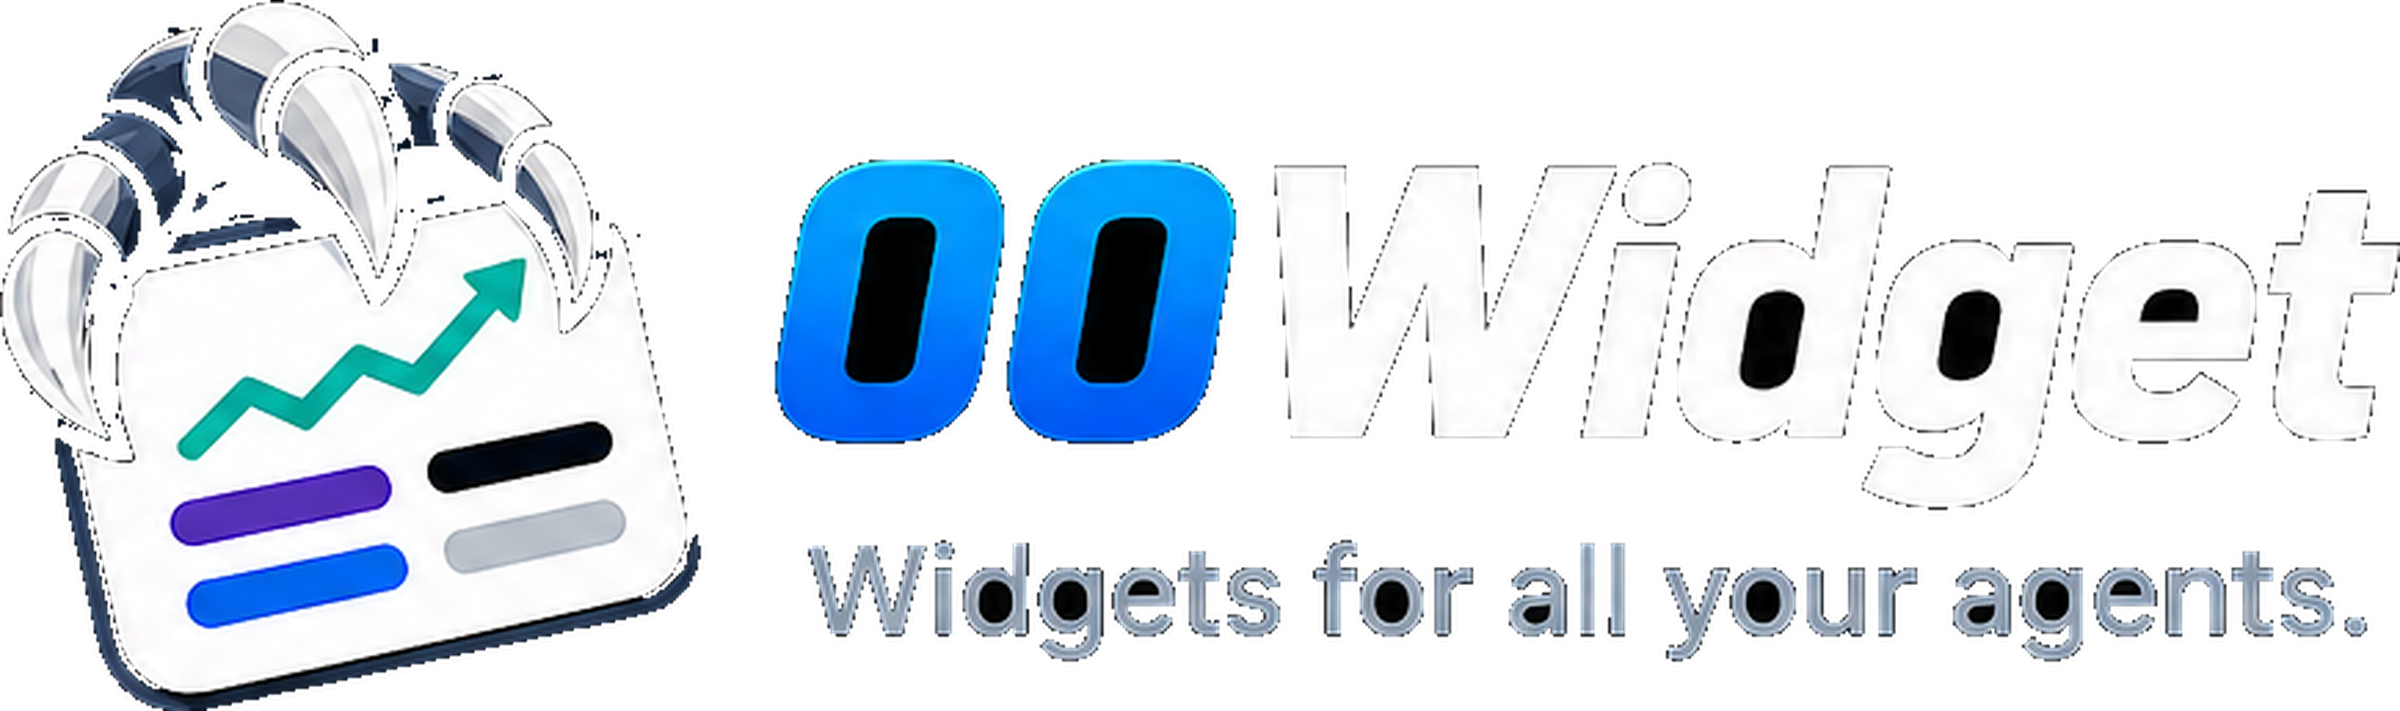
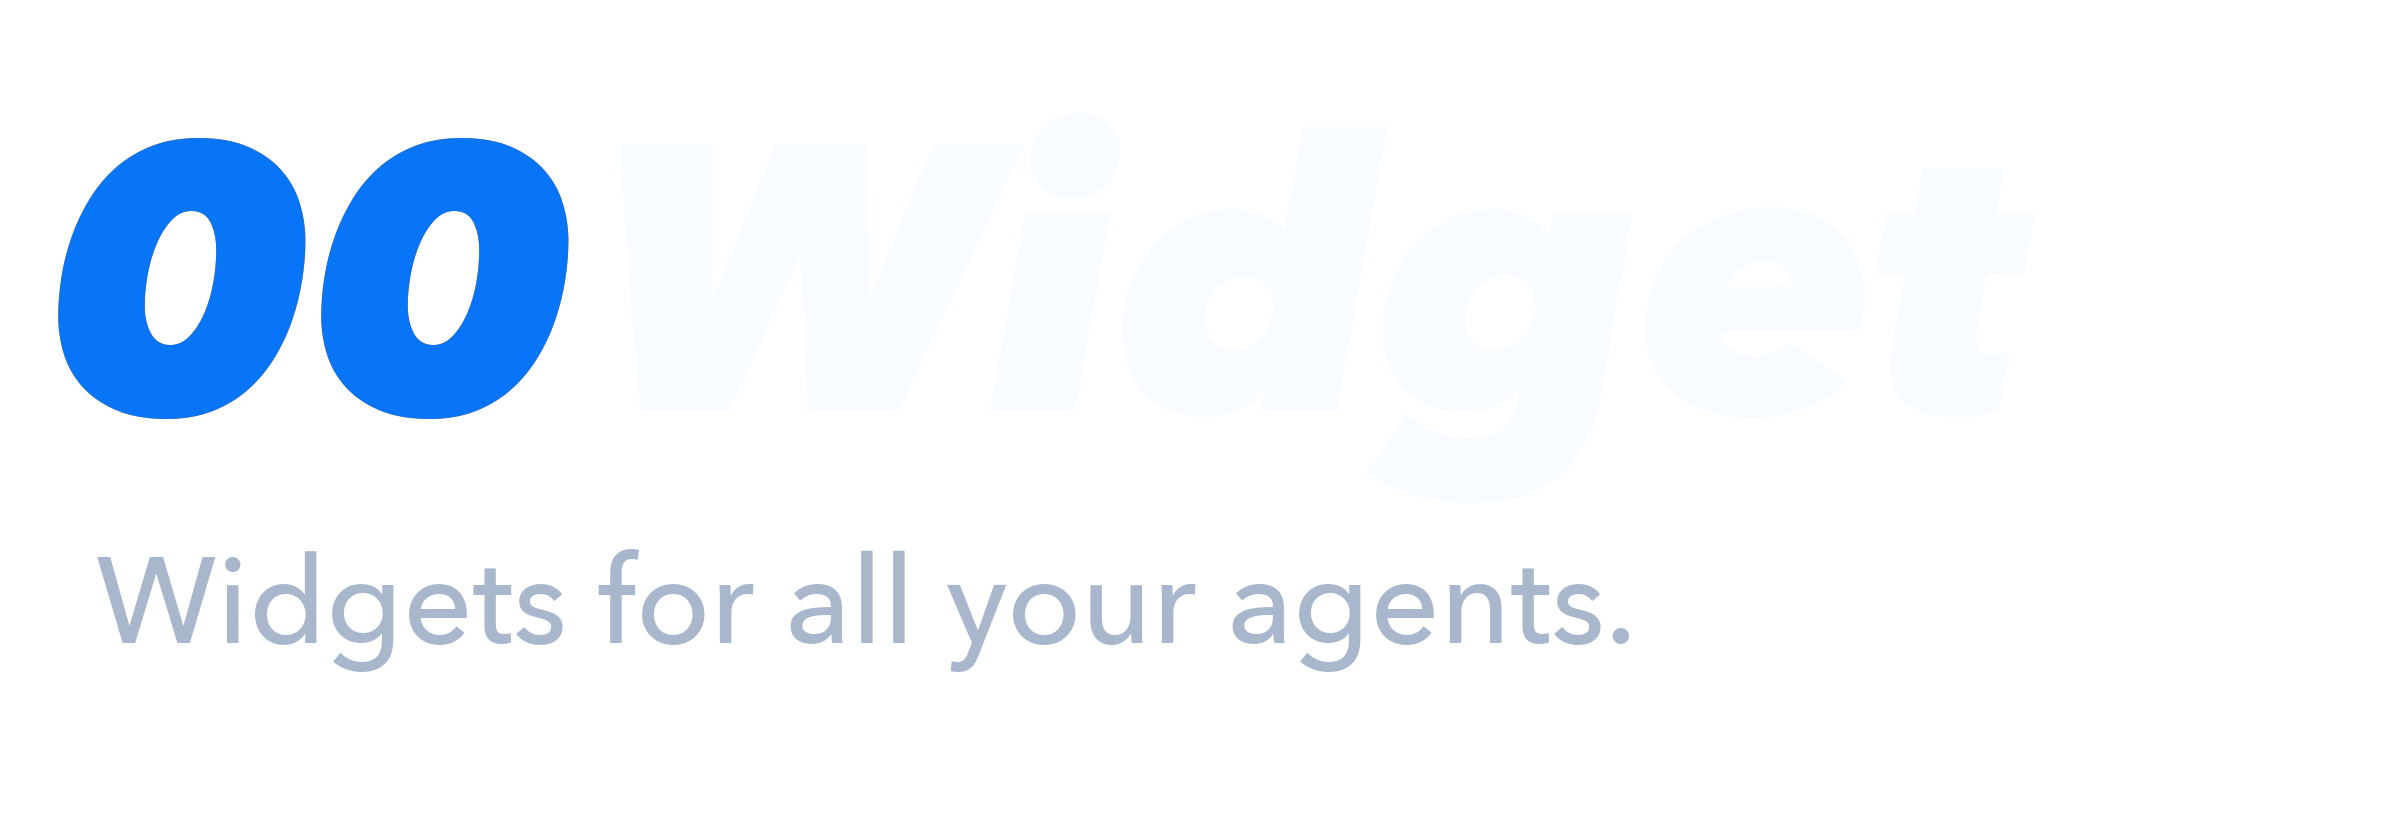
Adopt U2 two-card agent branding
Adopt the approved U2 two-card identity across documentation, iOS, and
tvOS assets. Add high-resolution raster masters and a deterministic
generator so every icon, wordmark, top-shelf image, and launch asset
derives from reviewed sources.

Document the palette and asset roles, and keep generated platform
artwork committed for reproducible releases.

Assisted-by: Codex <codex@openai.com>

diff --git a/scripts/generate-brand-assets.py b/scripts/generate-brand-assets.py
@@ -1,0 +1,250 @@
+#!/usr/bin/env python3
+"""Generate 00Widget assets from the approved U2 identity sheet."""
+
+from __future__ import annotations
+
+import shutil
+from collections import deque
+from pathlib import Path
+
+from PIL import Image, ImageDraw, ImageFont, ImageOps
+
+
+REPO_ROOT = Path(__file__).resolve().parents[1]
+BRAND_DIR = REPO_ROOT / "docs" / "brand"
+SOURCE = BRAND_DIR / "u2-approved-reference.png"
+MARK_MASTER = BRAND_DIR / "u2-mark-transparent-master.png"
+APP_ICON_MASTER = BRAND_DIR / "u2-app-icon-master.png"
+WEBSITE_ROOT = REPO_ROOT.parent / "00widget-www"
+
+NAVY = "#06152A"
+MID_NAVY = "#4C607D"
+WHITE = "#F8FBFF"
+GRAY = "#A9B7CC"
+FONT_PATH = "/System/Library/Fonts/Avenir Next.ttc"
+
+# Pixel-exact regions from the approved 1536 × 1024 U2 identity sheet.
+MARK_BOX = (100, 50, 630, 570)
+APP_ICON_BOX = (105, 685, 375, 955)
+WORDMARK_BOX = (675, 225, 1475, 505)
+
+
+def font(size: int, *, index: int = 5) -> ImageFont.FreeTypeFont:
+    return ImageFont.truetype(FONT_PATH, size=size, index=index)
+
+
+def crop(box: tuple[int, int, int, int]) -> Image.Image:
+    return Image.open(SOURCE).convert("RGBA").crop(box)
+
+
+def remove_exterior_background(image: Image.Image, threshold: int = 54) -> Image.Image:
+    """Remove only sheet pixels connected to the crop edge.
+
+    U2 contains white cards and a white hat band, so global white-to-alpha
+    conversion would damage the approved art. Edge-connected removal keeps
+    those enclosed white details intact.
+    """
+    rgba = image.convert("RGBA")
+    pixels = rgba.load()
+    width, height = rgba.size
+    sample_points = [(0, 0), (width - 1, 0), (0, height - 1), (width - 1, height - 1)]
+    background = tuple(round(sum(pixels[x, y][channel] for x, y in sample_points) / 4) for channel in range(3))
+
+    def is_background(x: int, y: int) -> bool:
+        color = pixels[x, y]
+        return sum((color[channel] - background[channel]) ** 2 for channel in range(3)) ** 0.5 <= threshold
+
+    queue: deque[tuple[int, int]] = deque()
+    visited = bytearray(width * height)
+    for x in range(width):
+        queue.append((x, 0))
+        queue.append((x, height - 1))
+    for y in range(height):
+        queue.append((0, y))
+        queue.append((width - 1, y))
+
+    while queue:
+        x, y = queue.popleft()
+        index = y * width + x
+        if visited[index] or not is_background(x, y):
+            continue
+        visited[index] = 1
+        pixels[x, y] = (0, 0, 0, 0)
+        if x:
+            queue.append((x - 1, y))
+        if x + 1 < width:
+            queue.append((x + 1, y))
+        if y:
+            queue.append((x, y - 1))
+        if y + 1 < height:
+            queue.append((x, y + 1))
+
+    return rgba
+
+
+def remove_light_background(image: Image.Image) -> Image.Image:
+    """Remove the identity sheet's light backdrop from text-only artwork."""
+    rgba = image.convert("RGBA")
+    result: list[tuple[int, int, int, int]] = []
+    for red, green, blue, _ in rgba.getdata():
+        distance = ((red - 249) ** 2 + (green - 249) ** 2 + (blue - 249) ** 2) ** 0.5
+        alpha = max(0, min(255, round((distance - 2) * 255 / 28)))
+        result.append((red, green, blue, alpha))
+    rgba.putdata(result)
+    return rgba
+
+
+def contain(image: Image.Image, size: tuple[int, int], padding: int = 0) -> Image.Image:
+    canvas = Image.new("RGBA", size, (0, 0, 0, 0))
+    available = (size[0] - padding * 2, size[1] - padding * 2)
+    fitted = ImageOps.contain(image, available, Image.Resampling.LANCZOS)
+    canvas.alpha_composite(fitted, ((size[0] - fitted.width) // 2, (size[1] - fitted.height) // 2))
+    return canvas
+
+
+def dark_background(size: tuple[int, int]) -> Image.Image:
+    gradient = Image.radial_gradient("L").resize(size, Image.Resampling.LANCZOS)
+    return ImageOps.colorize(gradient, black=NAVY, white="#153B73").convert("RGBA")
+
+
+def save(image: Image.Image, path: Path, *, opaque: bool = False) -> None:
+    path.parent.mkdir(parents=True, exist_ok=True)
+    if opaque:
+        image = image.convert("RGB")
+    image.save(path, optimize=True)
+
+
+def exact_wordmark(*, transparent: bool) -> Image.Image:
+    source = crop(WORDMARK_BOX)
+    if transparent:
+        source = remove_light_background(source)
+    return source.resize((2400, 840), Image.Resampling.LANCZOS)
+
+
+def clean_wordmark(size: tuple[int, int], *, dark_surface: bool) -> Image.Image:
+    """Re-typeset the approved lockup cleanly for transparent/dark contexts."""
+    width, height = size
+    image = Image.new("RGBA", size, (0, 0, 0, 0))
+    draw = ImageDraw.Draw(image)
+    title_font = font(round(height * 0.45), index=9)
+    tagline_font = font(round(height * 0.145), index=5)
+    title_y = round(height * 0.04)
+    zero_x = round(width * 0.02)
+    zero_mask = Image.new("L", size, 0)
+    ImageDraw.Draw(zero_mask).text((zero_x, title_y), "00", font=title_font, fill=255)
+    blue_gradient = Image.new("RGBA", size, "#0874F7")
+    image.paste(blue_gradient, (0, 0), zero_mask)
+    zero_width = draw.textlength("00", font=title_font)
+    widget_x = round(zero_x + zero_width + height * 0.025)
+    draw.text((widget_x, title_y), "Widget", font=title_font, fill=WHITE if dark_surface else NAVY)
+    draw.text(
+        (round(width * 0.04), round(height * 0.62)),
+        "Widgets for all your agents.",
+        font=tagline_font,
+        fill=GRAY if dark_surface else MID_NAVY,
+    )
+    return image
+
+
+def tv_hero(mark: Image.Image, size: tuple[int, int]) -> Image.Image:
+    width, height = size
+    image = dark_background(size)
+    mark_size = round(height * 0.82)
+    image.alpha_composite(contain(mark, (mark_size, mark_size)), (round(width * 0.055), (height - mark_size) // 2))
+    wordmark = clean_wordmark((1200, 420), dark_surface=True)
+    target_width = round(width * 0.55)
+    target_height = round(target_width * wordmark.height / wordmark.width)
+    wordmark = wordmark.resize((target_width, target_height), Image.Resampling.LANCZOS)
+    image.alpha_composite(wordmark, (round(width * 0.40), (height - target_height) // 2))
+    return image
+
+
+def launch(mark: Image.Image) -> Image.Image:
+    image = dark_background((1920, 1080))
+    image.alpha_composite(contain(mark, (700, 700)), (115, 190))
+    wordmark = clean_wordmark((950, 333), dark_surface=True)
+    image.alpha_composite(wordmark, (830, 360))
+    return image
+
+
+def branding_sheet(mark: Image.Image, app_icon: Image.Image, wordmark: Image.Image) -> Image.Image:
+    image = Image.new("RGBA", (1536, 1024), "#F5F7FA")
+    draw = ImageDraw.Draw(image)
+    draw.text((70, 50), "00Widget identity system", font=font(42, index=0), fill=NAVY)
+    draw.text((70, 108), "U2 — approved master", font=font(24), fill=MID_NAVY)
+    image.alpha_composite(contain(mark, (520, 520)), (35, 135))
+    image.alpha_composite(ImageOps.contain(wordmark, (830, 290), Image.Resampling.LANCZOS), (620, 220))
+    draw.line((70, 640, 1466, 640), fill="#D8E0EA", width=2)
+    draw.rounded_rectangle((70, 690, 340, 960), radius=50, fill="#FFFFFF", outline="#D8E0EA")
+    image.alpha_composite(app_icon.resize((250, 250), Image.Resampling.LANCZOS), (80, 700))
+    draw.text((425, 735), "Two cards", font=font(30, index=0), fill=NAVY)
+    draw.text((425, 788), "A secret agent for every widget.", font=font(25), fill=MID_NAVY)
+    draw.text((425, 850), "Widgets for all your agents.", font=font(31, index=0), fill=NAVY)
+    return image
+
+
+def resize(source: Image.Image, size: tuple[int, int], *, opaque: bool = False) -> Image.Image:
+    result = source.resize(size, Image.Resampling.LANCZOS)
+    return result.convert("RGB") if opaque else result
+
+
+def generate() -> None:
+    for required in (SOURCE, MARK_MASTER, APP_ICON_MASTER):
+        if not required.exists():
+            raise SystemExit(f"Missing approved identity source: {required}")
+
+    mark = Image.open(MARK_MASTER).convert("RGBA")
+    app_icon = Image.open(APP_ICON_MASTER).convert("RGB").resize((1024, 1024), Image.Resampling.LANCZOS)
+    wordmark_opaque = exact_wordmark(transparent=False).convert("RGB")
+    wordmark_transparent = clean_wordmark((2400, 840), dark_surface=True)
+
+    save(app_icon, BRAND_DIR / "mark-1024.png", opaque=True)
+    save(contain(mark, (1024, 1024), padding=20), BRAND_DIR / "mark-transparent-1024.png")
+    save(wordmark_opaque, BRAND_DIR / "wordmark-horizontal.png", opaque=True)
+    save(wordmark_transparent, BRAND_DIR / "wordmark-horizontal-transparent.png")
+    shutil.copy2(SOURCE, BRAND_DIR / "branding-sheet.png")
+
+    save(app_icon, REPO_ROOT / "ios/Resources/App/Assets.xcassets/AppIcon.appiconset/Icon-1024.png", opaque=True)
+
+    tv_assets = REPO_ROOT / "ios/Resources/TV/Assets.xcassets/App Icon & Top Shelf Image.brandassets"
+    back_store = dark_background((2560, 1536)).convert("RGB")
+    front_store = contain(mark, (2560, 1536), padding=250)
+    back_regular = resize(back_store, (800, 480), opaque=True)
+    front_regular = resize(front_store, (800, 480))
+
+    save(back_store, tv_assets / "App Icon - App Store.imagestack/Back.imagestacklayer/Content.imageset/Back@2x.png", opaque=True)
+    save(resize(back_store, (1280, 768), opaque=True), tv_assets / "App Icon - App Store.imagestack/Back.imagestacklayer/Content.imageset/Back.png", opaque=True)
+    save(front_store, tv_assets / "App Icon - App Store.imagestack/Front.imagestacklayer/Content.imageset/Front@2x.png")
+    save(resize(front_store, (1280, 768)), tv_assets / "App Icon - App Store.imagestack/Front.imagestacklayer/Content.imageset/Front.png")
+    save(back_regular, tv_assets / "App Icon.imagestack/Back.imagestacklayer/Content.imageset/Back@2x.png", opaque=True)
+    save(resize(back_regular, (400, 240), opaque=True), tv_assets / "App Icon.imagestack/Back.imagestacklayer/Content.imageset/Back.png", opaque=True)
+    save(front_regular, tv_assets / "App Icon.imagestack/Front.imagestacklayer/Content.imageset/Front@2x.png")
+    save(resize(front_regular, (400, 240)), tv_assets / "App Icon.imagestack/Front.imagestacklayer/Content.imageset/Front.png")
+
+    top_shelf = tv_hero(mark, (1920, 720))
+    top_shelf_wide = tv_hero(mark, (2320, 720))
+    save(resize(top_shelf, (3840, 1440), opaque=True), tv_assets / "Top Shelf Image.imageset/TopShelf@2x.png", opaque=True)
+    save(top_shelf, tv_assets / "Top Shelf Image.imageset/TopShelf.png", opaque=True)
+    save(resize(top_shelf_wide, (4640, 1440), opaque=True), tv_assets / "Top Shelf Image Wide.imageset/TopShelfWide@2x.png", opaque=True)
+    save(top_shelf_wide, tv_assets / "Top Shelf Image Wide.imageset/TopShelfWide.png", opaque=True)
+    save(launch(mark), REPO_ROOT / "ios/Resources/TV/Assets.xcassets/LaunchImage.imageset/Launch.png", opaque=True)
+
+    if WEBSITE_ROOT.exists():
+        public = WEBSITE_ROOT / "public"
+        assets = public / "assets"
+        shutil.copy2(BRAND_DIR / "mark-transparent-1024.png", assets / "mark-transparent-1024.png")
+        shutil.copy2(BRAND_DIR / "wordmark-horizontal.png", assets / "wordmark-horizontal.png")
+        shutil.copy2(BRAND_DIR / "wordmark-horizontal-transparent.png", assets / "wordmark-horizontal-transparent.png")
+        for size, filename in [
+            (16, "favicon-16x16.png"),
+            (32, "favicon-32x32.png"),
+            (180, "apple-touch-icon.png"),
+            (192, "android-chrome-192x192.png"),
+            (512, "android-chrome-512x512.png"),
+        ]:
+            save(resize(app_icon, (size, size), opaque=True), public / filename, opaque=True)
+        app_icon.save(public / "favicon.ico", format="ICO", sizes=[(16, 16), (32, 32), (48, 48)])
+
+
+if __name__ == "__main__":
+    generate()

diff --git a/docs/brand/README.md b/docs/brand/README.md
@@ -1,4 +1,4 @@
-# 00Widget — Brand
+# 00Widget — U2 Brand
 
 The official brand assets and usage rules.
 
@@ -16,36 +16,54 @@ Use this exact wording — no rephrasing. It appears in:
 - `ios/Resources/App/Info.plist` (CFBundleDisplayName tagline area)
 - store listings, social cards
 
+## Identity
+
+U2 is the **Two-Card Agent**: two overlapping widget cards, an oversized
+secret-agent fedora, two horizontal eyes, and a teal rising trend line. The
+approved artwork is intentionally friendly and slightly organic. Do not redraw
+it as hard geometric primitives or alter its proportions.
+
+`u2-approved-reference.png` is the authoritative approved identity sheet.
+`u2-mark-transparent-master.png` is the production transparent mark derived
+from that exact design, and `u2-app-icon-master.png` is its high-resolution
+white-hat app-icon treatment. Platform exports are generated by:
+
+```bash
+python3 scripts/generate-brand-assets.py
+```
+
 ## Assets in this directory
 
 | File                                  | Size       | Background       | Use                                                                                          |
 | ------------------------------------- | ---------- | ---------------- | -------------------------------------------------------------------------------------------- |
 | `mark-1024.png`                       | 1024×1024  | Opaque dark navy | iOS App Icon. Already wired into `ios/Resources/App/Assets.xcassets/AppIcon.appiconset/Icon-1024.png`. |
 | `mark-transparent-1024.png`           | 1024×1024  | Transparent      | Mark on arbitrary backgrounds — buttons, badges, dark headers.                               |
-| `wordmark-horizontal.png`             | 2400×813   | Opaque dark navy | Horizontal lockup with built-in dark-navy panel. README hero — works in light *and* dark themes. |
-| `wordmark-horizontal-transparent.png` | 2400×711   | Transparent      | Horizontal lockup without panel. Use only when placing on a dark surface that gives enough contrast. |
+| `wordmark-horizontal.png`             | 2400×840   | Opaque light     | Pixel-exact approved horizontal lockup for light surfaces. |
+| `wordmark-horizontal-transparent.png` | 2400×840   | Transparent      | Clean dark-surface lockup using the approved typography and tagline. |
 | `branding-sheet.png`                  | 1536×1024  | —                | Reference contact sheet showing all variants together.                                       |
+| `u2-approved-reference.png`            | 1536×1024  | Opaque light     | Authoritative approved U2 identity sheet.                                                     |
+| `u2-mark-transparent-master.png`       | 1254×1254  | Transparent      | High-resolution production mark for derived assets.                                          |
+| `u2-app-icon-master.png`               | 1254×1254  | Opaque navy      | High-resolution white-hat app icon master.                                                    |
 
-Vector sources (SVG) are not maintained for this revision; rasterize from a higher-res master if you need additional sizes.
+This identity is raster-first so production assets remain faithful to the
+approved U2 artwork. Do not substitute an approximate vector redraw.
 
 ## Color palette
 
-Eyeballed from the rendered PNGs (treat as approximate — request authoritative hex values from the designer if you need them for new collateral).
-
-| Role             | Approx hex            | Usage                                       |
+| Role             | Hex                   | Usage                                       |
 | ---------------- | --------------------- | ------------------------------------------- |
 | Brand blue       | `#1F8BFF` / `#0968E8` | "00" wordmark, primary accent               |
 | Trend teal       | `#1FB89A`             | Trend-line accent inside the mark           |
 | Accent purple    | `#5B35DB`             | Card row accent inside the mark             |
-| Claw metal       | white → `#8291A6`     | Claw fill (gradient)                        |
 | Deep navy        | `#06152A`             | Panel + card stroke + "Widget" text         |
-| Mid navy         | `#243A57`             | Tagline                                     |
+| Mid navy         | `#4C607D`             | Tagline                                     |
 | Card surface     | `#F8FBFF`             | Card background inside the mark             |
-| Card row gray    | `#D4DAE2`             | Inactive row in the mark                    |
 
 ## Usage rules
 
 - **Do not** rephrase the tagline.
+- **Do not** change the agent's hat, card overlap, eye placement, trend line,
+  tilt, or rounded proportions.
 - **Do not** recolor the mark. Use the supplied variants as-is.
 - **Do** keep clearspace around the mark equal to half the height of the "0" in `00Widget`.
 - **Do not** stretch — preserve aspect ratio always.
